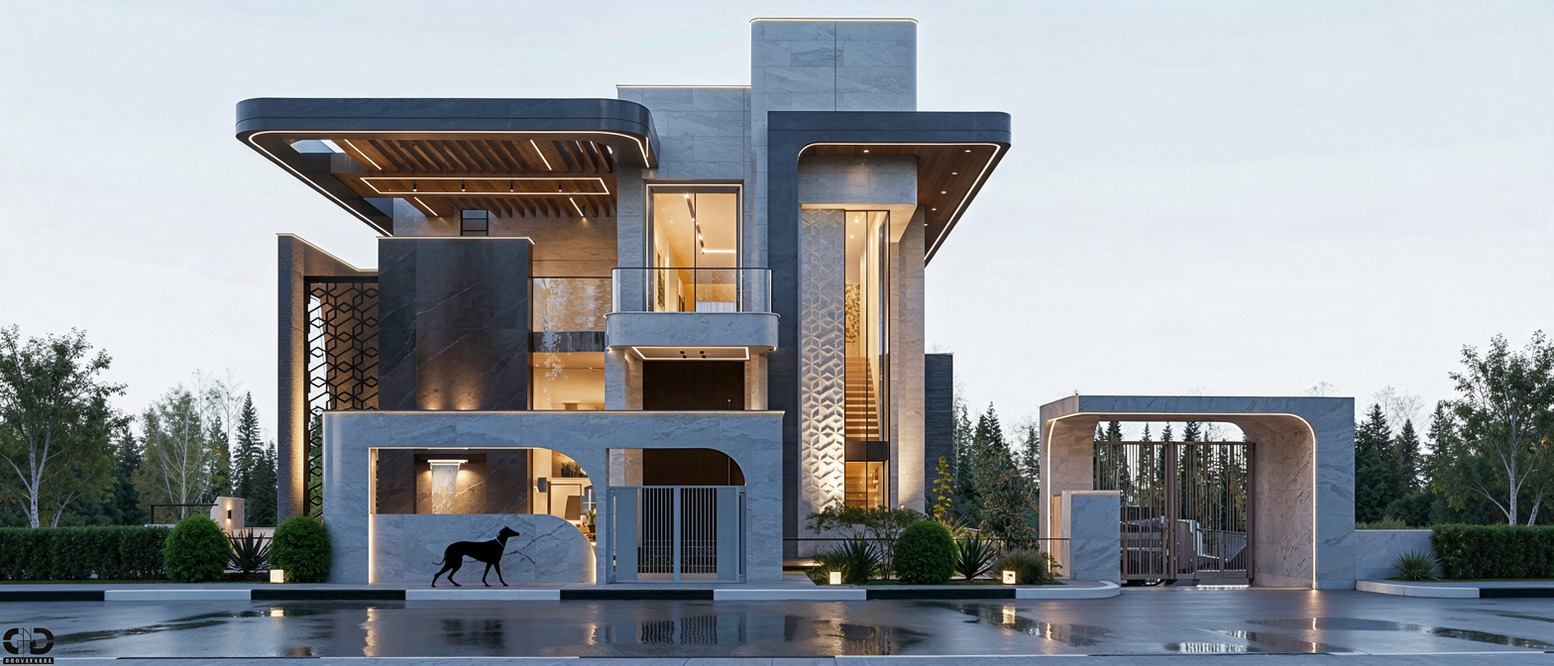
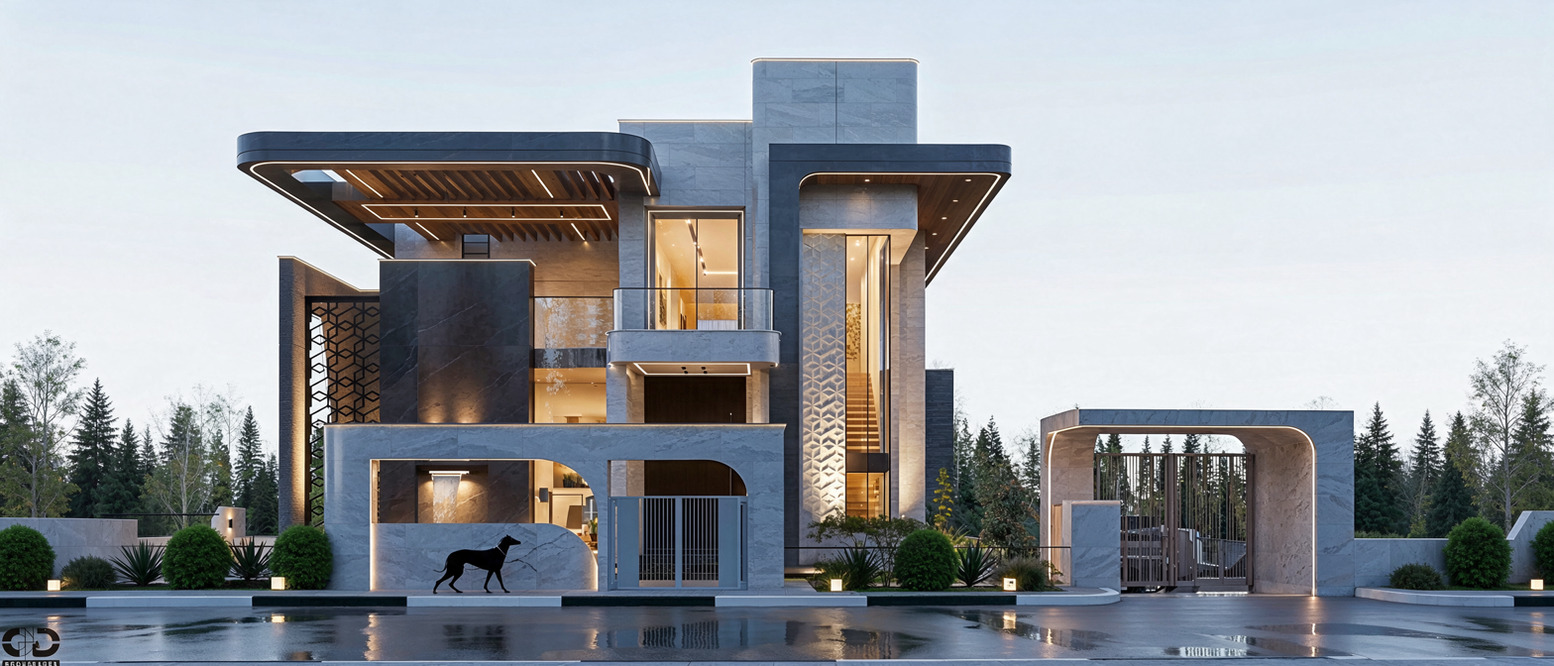
Swap the hero to 3.jpeg with a public full-resolution still and a height-fit frame on large screens.

diff --git a/components/HeroSlidePicture.tsx b/components/HeroSlidePicture.tsx
@@ -3,6 +3,9 @@ import {
   HERO_DESKTOP_MEDIA,
   HERO_DESKTOP_SIZES,
   HERO_LCP_DESKTOP_SIZES,
+  HERO_LCP_INTRINSIC_HEIGHT,
+  HERO_LCP_INTRINSIC_WIDTH,
+  HERO_LCP_PUBLIC_SRC,
   HERO_LCP_QUALITY,
   HERO_LCP_UNOPTIMIZED,
   HERO_MOBILE_MEDIA,
@@ -14,6 +17,20 @@ import {
 import { getImageProps } from "next/image";
 
 export type HeroSlide = (typeof hero.images)[number];
+
+const heroFrameImgStyle = {
+  top: 0,
+  bottom: "auto",
+  left: "50%",
+  right: "auto",
+  width: "auto",
+  height: "100%",
+  maxWidth: "none",
+  maxHeight: "100%",
+  transform: "translateX(-50%)",
+  objectFit: "contain",
+  objectPosition: "center center",
+} as const;
 
 function heroSrcSet(props: { srcSet?: string; src?: string }) {
   return props.srcSet || props.src || "";
@@ -31,6 +48,27 @@ export function HeroSlidePicture({
   onLoad?: () => void;
 }) {
   const fetchPriority = (priority ? "high" : "auto") as "high" | "auto";
+
+  if (priority && HERO_LCP_UNOPTIMIZED) {
+    return (
+      <picture className="hero-modern__picture hero-modern__picture--source">
+        <img
+          src={HERO_LCP_PUBLIC_SRC}
+          className="hero-modern__img"
+          width={HERO_LCP_INTRINSIC_WIDTH}
+          height={HERO_LCP_INTRINSIC_HEIGHT}
+          alt=""
+          draggable={false}
+          loading={loading}
+          decoding="sync"
+          fetchPriority={fetchPriority}
+          onLoad={onLoad}
+          style={heroFrameImgStyle}
+        />
+      </picture>
+    );
+  }
+
   const quality = priority ? HERO_LCP_QUALITY : HERO_CAROUSEL_QUALITY;
   const desktopSizes = priority ? HERO_LCP_DESKTOP_SIZES : HERO_DESKTOP_SIZES;
   const frameSizes = priority ? HERO_LCP_DESKTOP_SIZES : undefined;
@@ -76,16 +114,7 @@ export function HeroSlidePicture({
         onLoad={onLoad}
         style={{
           ...imgProps.style,
-          top: 0,
-          bottom: "auto",
-          left: "50%",
-          right: "auto",
-          width: "auto",
-          height: "100%",
-          maxWidth: "none",
-          transform: "translateX(-50%)",
-          objectFit: "contain",
-          objectPosition: "center center",
+          ...heroFrameImgStyle,
         }}
       />
     </picture>

diff --git a/lib/hero-content.ts b/lib/hero-content.ts
@@ -33,6 +33,10 @@ export const HERO_IMAGE_QUALITY = HERO_CAROUSEL_QUALITY;
 export const HERO_MOBILE_SIZES = "(max-width: 767px) 100vw";
 export const HERO_TABLET_SIZES = "(max-width: 1024px) 100vw, 960px";
 export const HERO_DESKTOP_SIZES = "(max-width: 1536px) 100vw, 1920px";
+/** Public hero still (byte-identical to source JPEG — no Next image pipeline). */
+export const HERO_LCP_PUBLIC_SRC = "/hero/hero-lcp.jpeg";
+export const HERO_LCP_INTRINSIC_WIDTH = 1554;
+export const HERO_LCP_INTRINSIC_HEIGHT = 666;
 /** Native hero still width (1554px) — avoid requesting upscaled derivatives. */
 export const HERO_LCP_DESKTOP_SIZES = "1554px";
 
@@ -41,7 +45,7 @@ const heroImages = [
     src: heroPrimary,
     srcMobile: heroPrimaryMobile,
     srcTablet: heroPrimaryTablet,
-    alt: "Symmetrical marble villa facade at dusk — hero exterior",
+    alt: "Contemporary villa facade at dusk — hero exterior",
     primary: true,
     objectPosition: "50% 50%",
   },
@@ -82,5 +86,5 @@ export const hero = {
   ...heroCopy,
   images: heroImages,
   image: heroPrimary,
-  imageAlt: "Symmetrical marble villa facade at dusk — hero exterior",
+  imageAlt: "Contemporary villa facade at dusk — hero exterior",
 } as const;

diff --git a/app/home-editorial.css b/app/home-editorial.css
@@ -405,11 +405,36 @@
   width: auto;
   height: 100%;
   max-width: none;
+  max-height: 100%;
   object-fit: contain;
   object-position: center center;
   image-rendering: auto;
   pointer-events: none;
   user-select: none;
+}
+
+@media (min-width: 1024px) {
+  .hero-modern__stage {
+    display: grid;
+    place-items: center;
+  }
+
+  .hero-modern__layer-inner,
+  .hero-modern__picture--source {
+    width: 100%;
+    height: 100%;
+    display: flex;
+    align-items: stretch;
+    justify-content: center;
+  }
+
+  .hero-modern__picture--source .hero-modern__img {
+    height: 100%;
+    max-height: 100%;
+    width: auto;
+    object-fit: contain;
+    object-position: center center;
+  }
 }
 
 /* First still fills the hero height and keeps its full sky-to-ground frame. */

diff --git a/components/HeroLcpPreload.tsx b/components/HeroLcpPreload.tsx
@@ -3,6 +3,7 @@ import {
   HERO_DESKTOP_MEDIA,
   HERO_LCP_DESKTOP_SIZES,
   HERO_LCP_QUALITY,
+  HERO_LCP_PUBLIC_SRC,
   HERO_LCP_UNOPTIMIZED,
   HERO_MOBILE_MEDIA,
   HERO_TABLET_MEDIA,
@@ -25,9 +26,14 @@ export function HeroLcpPreload() {
   const slide = hero.images[0];
 
   if (HERO_LCP_UNOPTIMIZED) {
-    const href = slide.src.src;
     return (
-      <link rel="preload" as="image" href={href} fetchPriority="high" suppressHydrationWarning />
+      <link
+        rel="preload"
+        as="image"
+        href={HERO_LCP_PUBLIC_SRC}
+        fetchPriority="high"
+        suppressHydrationWarning
+      />
     );
   }
 
